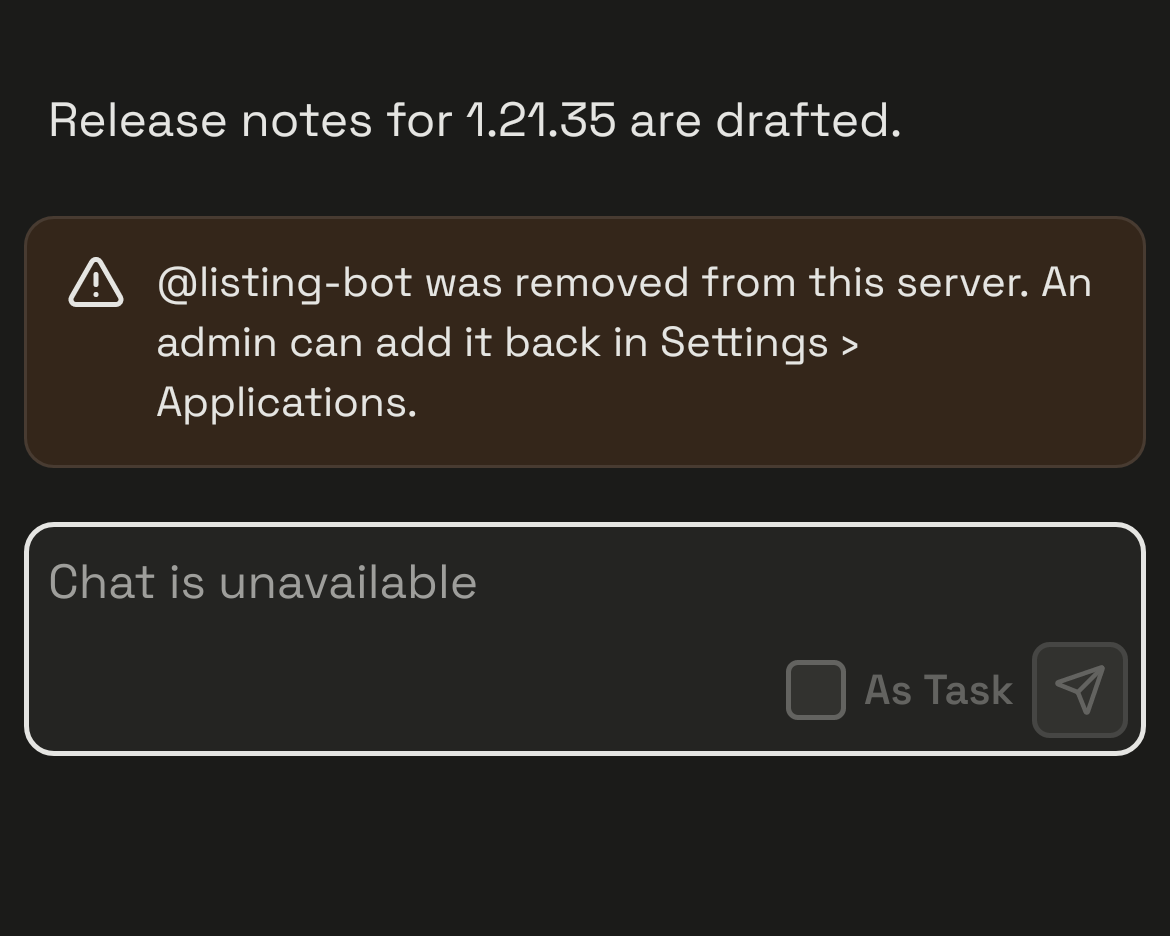
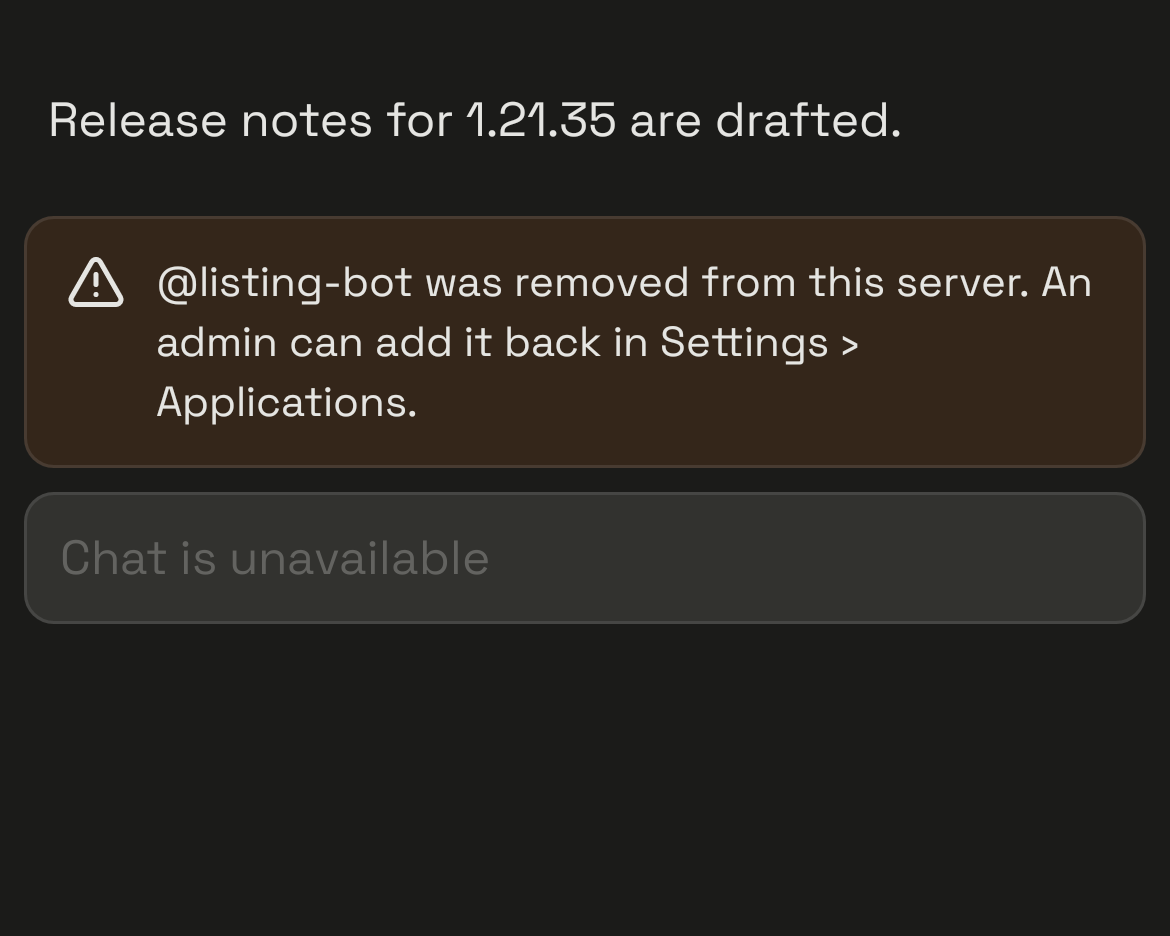
fix(app-bots): read-only composer for a removed bot's DM, Bot badge on Activity DM rows
Kirby's visual review of #3757 and AppFather's follow-up:
- A removed App Bot's DM (and threads in it) now show web's ReadOnlyComposer:
  one 44dp line, line-hairline border on fill-muted, "Chat is unavailable" in
  foreground-disabled; no editor, As Task, attachments or send. New
  design-system RaftReadOnlyComposer with light/dark goldens. The editor no
  longer mounts there, so a saved draft stays untouched.
- Activity: a DM row with an App Bot carries the Bot badge after the name.

Changed region(s): [[0.0, 0.5267, 0.9846, 0.8056]]

diff --git a/compose/shared/src/androidUnitTest/kotlin/build/raft/app/ThreadAppBotScreenshotTest.kt b/compose/shared/src/androidUnitTest/kotlin/build/raft/app/ThreadAppBotScreenshotTest.kt
@@ -1,6 +1,5 @@
 package build.raft.app
 
-import build.raft.app.resources.*
 import androidx.compose.foundation.background
 import androidx.compose.foundation.layout.Box
 import androidx.compose.foundation.layout.Column
@@ -35,7 +34,8 @@ import org.robolectric.annotation.GraphicsMode
  *  - author line: an App Bot named after its App reads "Stamp [Bot]"; one shown under another
  *    name reads "Release helper [Bot · Listing Bot App]"; neither shows a model.
  *  - DM header: the Bot badge replaces the presence line ("Offline").
- *  - removed bot DM: the warning notice above the disabled composer ("Chat is unavailable").
+ *  - Activity: a DM row with an App Bot carries the badge after the name; an ordinary agent's does not.
+ *  - removed bot DM: the warning notice above the one-line read-only composer ("Chat is unavailable").
  * Reports land in `build/reports/home-screenshots/`; verify / record as [RaftRobolectricScreenshot].
  */
 @RunWith(RobolectricTestRunner::class)
@@ -56,6 +56,10 @@ class ThreadAppBotScreenshotTest {
     @Test fun removedDmComposerLight() = capture("thread.app-bot.removed-dm", RaftAppAppearance.Light) { RemovedDmComposer() }
 
     @Test fun removedDmComposerDark() = capture("thread.app-bot.removed-dm.dark", RaftAppAppearance.Dark) { RemovedDmComposer() }
+
+    @Test fun activityDmRowsLight() = capture("activity.app-bot.dm-rows", RaftAppAppearance.Light) { ActivityBotDmRows() }
+
+    @Test fun activityDmRowsDark() = capture("activity.app-bot.dm-rows.dark", RaftAppAppearance.Dark) { ActivityBotDmRows() }
 
     private fun capture(name: String, appearance: RaftAppAppearance, content: @Composable () -> Unit) =
         RaftRobolectricScreenshot.capture(name, appearance, reportDir = "build/reports/home-screenshots", activities = activities) {
@@ -152,16 +156,61 @@ private fun RemovedDmComposer() {
             modifier = Modifier.padding(bottom = 8.dp),
         )
     }
-    ThreadComposerDock {
-        Column(Modifier.fillMaxWidth()) {
-            ThreadRemovedAppBotNotice(handle = "listing-bot")
-            ThreadComposerContent(
-                payload =
-                    RaftThreadComposerPayload(instanceId = "dm", placeholder = "Message @listing-bot")
-                        .removedAppBotReadOnly(stringResource(Res.string.thread_composer_chat_unavailable)),
-                onEvent = { _, _, _, _ -> },
-                attachmentPreviewEnabled = false,
-            )
-        }
+    ThreadComposerDock { ThreadRemovedAppBotReadOnlyComposer(handle = "listing-bot") }
+}
+
+private fun dmItem(channelId: String, name: String, preview: String, at: String, unread: Int = 0) =
+    build.raft.app.data.InboxItem(
+        key = "dm:$channelId",
+        kind = build.raft.app.model.InboxItemKind.DirectMessage,
+        channelId = build.raft.app.model.ChannelId(channelId),
+        channelName = name,
+        unreadCount = unread,
+        lastMessageSenderName = name,
+        lastMessageSenderKind = MemberKind.Agent,
+        lastMessagePreview = preview,
+        lastMessageAt = at,
+    )
+
+@Composable
+private fun ActivityBotDmRows() {
+    val timeContext =
+        build.raft.app.model.RaftTimeContext(
+            localOffsetMinutes = 8 * 60,
+            todayEpochDay = build.raft.app.model.raftEpochDayForDate(2026, 10, 26),
+            nowEpochMillis = 1_793_000_000_000L,
+        )
+    fun peer(id: String, name: String) =
+        ActivityConversationDmPeer(peerId = id, peerIsAgent = true, avatarWireValue = null, displayName = name, activityMuted = false)
+    val context =
+        ActivityConversationListContext(
+            dmPeersByChannelId =
+                mapOf(
+                    "dm-stamp" to peer("agent-stamp", "Stamp"),
+                    "dm-helper" to peer("agent-helper", "Release helper"),
+                    "dm-volta" to peer("agent-volta", "Volta"),
+                ),
+        )
+    val rows =
+        listOf(
+            dmItem("dm-stamp", "Stamp", "PR #3753 is approved and ready to merge.", "2026-10-26T01:20:00Z", unread = 1),
+            dmItem("dm-helper", "Release helper", "Release notes for 1.21.35 are drafted.", "2026-10-26T01:10:00Z"),
+            dmItem("dm-volta", "Volta", "Deployed and checked again.", "2026-10-26T01:00:00Z"),
+        )
+    rows.forEachIndexed { index, item ->
+        ActivityConversationListRow(
+            item = item,
+            model = item.activityConversationRowModel(context, build.raft.app.data.InboxFilter.All),
+            divider = index > 0,
+            selected = false,
+            timeContext = timeContext,
+            agentStatusResolver = EmptyRaftAgentStatusResolver,
+            canMarkDone = true,
+            openGestureKey = item.key,
+            captureMenuAnchor = false,
+            onOpen = {},
+            onOpenMenu = {},
+            modifier = Modifier.fillMaxWidth(),
+        )
     }
 }

diff --git a/compose/shared/src/commonMain/kotlin/build/raft/app/ThreadPage.kt b/compose/shared/src/commonMain/kotlin/build/raft/app/ThreadPage.kt
@@ -28,6 +28,7 @@ import build.raft.designsystem.components.RaftGlyph
 import build.raft.designsystem.components.RaftBackButton
 import build.raft.designsystem.components.RaftBanner
 import build.raft.designsystem.components.RaftBannerStatus
+import build.raft.designsystem.components.RaftReadOnlyComposer
 import build.raft.designsystem.components.RaftBackButtonDefaults
 import build.raft.designsystem.gesture.raftBackSwipeRegion
 import build.raft.designsystem.gesture.rememberRaftBackSwipeScroll
@@ -16952,6 +16953,11 @@ private fun ThreadComposerRoute(
     /** A removed App Bot's DM (or a thread in it): notice above a disabled composer. */
     removedAppBot: RaftAppBotIdentity? = null,
 ) {
+    if (removedAppBot != null) {
+        // The editor never mounts, so the saved draft stays in the store untouched.
+        ThreadRemovedAppBotReadOnlyComposer(handle = removedAppBot.handle)
+        return
+    }
     val composerDraftState by composerDraftViewModel.state.collectAsState()
     val expectedDraftKey = remember(surface) { surface.threadComposerDraftKey() }
     val restingHeightKey = surface.threadComposerRestingHeightKey()
@@ -16976,16 +16982,8 @@ private fun ThreadComposerRoute(
                 resolvedAuxiliaryThreadId = resolvedAuxiliaryThreadId
             )
         }
-    val chatUnavailable = stringResource(Res.string.thread_composer_chat_unavailable)
-    val composerUiState =
-        composerState
-            .let { state -> if (removedAppBot != null) state.removedAppBotReadOnly(chatUnavailable) else state }
-            .toThreadComposerUiState()
-    val composerAtRest = composerUiState.isThreadComposerAtRest() && removedAppBot == null
-    Column(modifier = Modifier.fillMaxWidth()) {
-    if (removedAppBot != null) {
-        ThreadRemovedAppBotNotice(handle = removedAppBot.handle)
-    }
+    val composerUiState = composerState.toThreadComposerUiState()
+    val composerAtRest = composerUiState.isThreadComposerAtRest()
     Box(
         modifier =
             Modifier.fillMaxWidth().onSizeChangedDp { size ->
@@ -17013,35 +17011,25 @@ private fun ThreadComposerRoute(
         adaptiveNativeEditingStateReader = adaptiveNativeEditingStateReader,
     )
     }
-    }
 }
 
 /**
- * The DM with an App Bot removed from this server (botiverse/slock #11303 `RemovedAppBotDmNotice`):
- * a raft-ui warning Banner above the read-only composer that says why and where an admin adds the
- * Bot back. Web links "Settings › Applications" for people who can manage Apps; the phone has no
- * server Apps settings, so everyone reads the plain text.
+ * The DM with an App Bot removed from this server, and threads in it (botiverse/slock #11303
+ * `RemovedAppBotDmNotice` over #11321 `ReadOnlyComposer`): a raft-ui warning Banner that says why
+ * and where an admin adds the Bot back, 8dp above the one-line read-only composer ("Chat is
+ * unavailable"; no typing, attachments, As Task or send). Web links "Settings › Applications" for
+ * people who can manage Apps; the phone has no server Apps settings, so everyone reads plain text.
  */
 @Composable
-internal fun ThreadRemovedAppBotNotice(handle: String, modifier: Modifier = Modifier) {
-    RaftBanner(
-        description = stringResource(Res.string.thread_app_bot_removed_notice, handle.removePrefix("@")),
-        status = RaftBannerStatus.Warning,
-        modifier = modifier.fillMaxWidth().padding(bottom = RaftAppSpacing.Sm),
-    )
+internal fun ThreadRemovedAppBotReadOnlyComposer(handle: String, modifier: Modifier = Modifier) {
+    Column(modifier = modifier.fillMaxWidth(), verticalArrangement = Arrangement.spacedBy(8.dp)) {
+        RaftBanner(
+            description = stringResource(Res.string.thread_app_bot_removed_notice, handle.removePrefix("@")),
+            status = RaftBannerStatus.Warning,
+        )
+        RaftReadOnlyComposer(text = stringResource(Res.string.thread_composer_chat_unavailable))
+    }
 }
-
-/**
- * Web `ReadOnlyComposer` ("Chat is unavailable") as the phone composer's own disabled state: no
- * typing, attachments or send; the placeholder says why. A saved draft is kept, not cleared, so
- * it is still there if an admin adds the Bot back.
- */
-internal fun RaftThreadComposerPayload.removedAppBotReadOnly(unavailablePlaceholder: String): RaftThreadComposerPayload =
-    copy(
-        enabled = false,
-        attachmentActionsEnabled = false,
-        placeholder = unavailablePlaceholder,
-    )
 
 /**
  * The composer's measured height at rest (empty draft, no attachments/actions/suggestions), per

diff --git a/compose/shared/src/commonTest/kotlin/build/raft/app/RaftAppBotTest.kt b/compose/shared/src/commonTest/kotlin/build/raft/app/RaftAppBotTest.kt
@@ -7,7 +7,6 @@ import build.raft.app.model.MemberKind
 import build.raft.app.model.MemberProfile
 import kotlin.test.Test
 import kotlin.test.assertEquals
-import kotlin.test.assertFalse
 import kotlin.test.assertNotNull
 import kotlin.test.assertNull
 import kotlin.test.assertTrue
@@ -123,18 +122,6 @@ class RaftAppBotTest {
     }
 
     @Test
-    fun removedBotComposerIsDisabledWithTheUnavailablePlaceholder() {
-        val composer =
-            RaftThreadComposerPayload(instanceId = "dm", placeholder = "Message @stamp", seedText = "draft kept")
-                .removedAppBotReadOnly("Chat is unavailable")
-        val state = composer.toThreadComposerUiState()
-        assertFalse(state.enabled)
-        assertFalse(state.attachmentActionsEnabled)
-        assertEquals("Chat is unavailable", state.placeholder)
-        assertEquals("draft kept", state.seedText)
-    }
-
-    @Test
     fun composerChecksTheDmPeerAndAThreadsParentDmPeer() {
         val botPeer =
             MemberDetailIdentity(MemberId("agent-removed"), MemberKind.Agent)
@@ -155,5 +142,35 @@ class RaftAppBotTest {
         assertNull(display(RaftThreadSurfaceKind.Channel, dm = botPeer).composerDmAgentPeerId())
         assertNull(display(RaftThreadSurfaceKind.ReplyThread).composerDmAgentPeerId())
         assertTrue(display(RaftThreadSurfaceKind.ReplyThread, dm = botPeer).composerDmAgentPeerId() == null)
+    }
+
+    @Test
+    fun activityBadgesOnlyADmRowWithAnAgentPeer() {
+        fun peer(id: String, agent: Boolean) =
+            ActivityConversationDmPeer(peerId = id, peerIsAgent = agent, avatarWireValue = null, displayName = id, activityMuted = false)
+        val context =
+            ActivityConversationListContext(
+                dmPeersByChannelId = mapOf("dm-bot" to peer("agent-stamp", true), "dm-human" to peer("user-1", false)),
+            )
+        fun dm(channelId: String) =
+            build.raft.app.data.InboxItem(
+                key = "dm:$channelId",
+                kind = build.raft.app.model.InboxItemKind.DirectMessage,
+                channelId = build.raft.app.model.ChannelId(channelId),
+                channelName = channelId,
+            )
+        val thread =
+            build.raft.app.data.InboxItem(
+                key = "thread:t",
+                kind = build.raft.app.model.InboxItemKind.Thread,
+                channelId = build.raft.app.model.ChannelId("t"),
+                channelName = "thread",
+                parentChannelId = build.raft.app.model.ChannelId("dm-bot"),
+                parentChannelKind = build.raft.app.model.ConversationKind.DirectMessage,
+            )
+        val all = build.raft.app.data.InboxFilter.All
+        assertEquals("agent-stamp", dm("dm-bot").activityConversationRowModel(context, all).activityDmAppBotPeerId())
+        assertNull(dm("dm-human").activityConversationRowModel(context, all).activityDmAppBotPeerId())
+        assertNull(thread.activityConversationRowModel(context, all).activityDmAppBotPeerId())
     }
 }

diff --git a/compose/designsystem/src/commonMain/kotlin/build/raft/designsystem/components/RaftReadOnlyComposer.kt b/compose/designsystem/src/commonMain/kotlin/build/raft/designsystem/components/RaftReadOnlyComposer.kt
@@ -1,0 +1,56 @@
+package build.raft.designsystem.components
+
+import androidx.compose.foundation.background
+import androidx.compose.foundation.border
+import androidx.compose.foundation.layout.Box
+import androidx.compose.foundation.layout.fillMaxWidth
+import androidx.compose.foundation.layout.heightIn
+import androidx.compose.foundation.layout.padding
+import androidx.compose.foundation.shape.RoundedCornerShape
+import androidx.compose.runtime.Composable
+import androidx.compose.ui.Alignment
+import androidx.compose.ui.Modifier
+import androidx.compose.ui.semantics.clearAndSetSemantics
+import androidx.compose.ui.semantics.contentDescription
+import androidx.compose.ui.semantics.disabled
+import androidx.compose.ui.text.style.TextOverflow
+import androidx.compose.ui.unit.dp
+import build.raft.designsystem.text.RaftText
+import build.raft.designsystem.theme.RaftTheme
+import build.raft.designsystem.tokens.RaftRadius
+import build.raft.designsystem.tokens.RaftStroke
+
+/**
+ * The composer's stand-in where nobody can write (botiverse/slock web `ReadOnlyComposer`): one
+ * disabled line, `min-h-11` (44dp), `rounded-container`, a `line-hairline` border on
+ * `fill-muted`, 12dp each side, and [text] ("Chat is unavailable") in `text-body`
+ * `foreground-disabled`. No typing, attachments, As Task or send. Screen readers hear [text] as a
+ * disabled field.
+ */
+@Composable
+fun RaftReadOnlyComposer(text: String, modifier: Modifier = Modifier) {
+    val colors = RaftTheme.colors
+    val shape = RoundedCornerShape(RaftRadius.Container)
+    Box(
+        modifier =
+            modifier
+                .fillMaxWidth()
+                .heightIn(min = 44.dp)
+                .background(colors.fillMuted, shape)
+                .border(RaftStroke.Hairline, colors.lineHairline, shape)
+                .clearAndSetSemantics {
+                    contentDescription = text
+                    disabled()
+                }
+                .padding(horizontal = 12.dp),
+        contentAlignment = Alignment.CenterStart,
+    ) {
+        RaftText(
+            text = text,
+            style = RaftTheme.typography.body,
+            color = colors.foregroundDisabled,
+            maxLines = 1,
+            overflow = TextOverflow.Ellipsis,
+        )
+    }
+}

diff --git a/compose/shared/src/commonMain/kotlin/build/raft/app/ActivityConversationList.kt b/compose/shared/src/commonMain/kotlin/build/raft/app/ActivityConversationList.kt
@@ -100,6 +100,12 @@ import build.raft.designsystem.theme.RaftTheme
  * are in ActivityConversationSwipe.kt.
  */
 
+/** The agent peer of a DM row (not a thread in a DM): whose App Bot badge the title carries. */
+internal fun ActivityConversationRowModel.activityDmAppBotPeerId(): String? =
+    dmPeer
+        ?.takeIf { leadingKind == ActivityConversationLeadingKind.DirectMessage && it.peerIsAgent }
+        ?.peerId
+
 /** The Home sidebar facts a conversation row needs: who a DM is with, and whether the place is muted. */
 @Immutable
 internal data class ActivityConversationDmPeer(
@@ -836,6 +842,11 @@ internal fun ActivityConversationListRow(
                                 maxLines = 1,
                                 overflow = TextOverflow.Ellipsis,
                             )
+                            // botiverse/slock #11273: the DM with an App Bot names it a Bot.
+                            val appBot = rememberRaftMemberAppBot(model.activityDmAppBotPeerId())
+                            if (appBot != null) {
+                                RaftAppBotBadge(identity = appBot, botName = model.title?.toAnnotatedString()?.text)
+                            }
                             if (model.taskNumber != null && model.taskStatus != null) {
                                 SharedActivityFooterBadge(
                                     label = "#${model.taskNumber}",

diff --git a/compose/designsystem/src/desktopTest/kotlin/build/raft/designsystem/screenshot/DisplayComponentScreenshotTest.kt b/compose/designsystem/src/desktopTest/kotlin/build/raft/designsystem/screenshot/DisplayComponentScreenshotTest.kt
@@ -32,6 +32,7 @@ import build.raft.designsystem.components.LocalRaftPressedPreview
 import build.raft.designsystem.components.LocalRaftSpinnerStillStep
 import build.raft.designsystem.components.LocalRaftTooltipPreview
 import build.raft.designsystem.components.RaftAgentStateChip
+import build.raft.designsystem.components.RaftReadOnlyComposer
 import build.raft.designsystem.components.RaftAgentTag
 import build.raft.designsystem.components.RaftAvatar
 import build.raft.designsystem.components.RaftAvatarBadgeBox
@@ -721,6 +722,19 @@ class DisplayComponentScreenshotTest {
             }
         }
     }
+
+    /** Web `ReadOnlyComposer`: a removed App Bot's DM under its warning notice. */
+    @Test
+    fun readOnlyComposer() =
+        capture("read_only_composer") {
+            Column(Modifier.width(380.dp), verticalArrangement = Arrangement.spacedBy(8.dp)) {
+                RaftBanner(
+                    description = "@stamp was removed from this server. An admin can add it back in Settings › Applications.",
+                    status = RaftBannerStatus.Warning,
+                )
+                RaftReadOnlyComposer("Chat is unavailable")
+            }
+        }
 
     @Test
     fun banner() =

diff --git a/compose/shared/src/commonMain/kotlin/build/raft/app/SharedInboxPanel.kt b/compose/shared/src/commonMain/kotlin/build/raft/app/SharedInboxPanel.kt
@@ -575,8 +575,14 @@ internal fun SharedHomeActivityScreen(
             activityStore.dispatch(SharedActivityIntent.Refresh)
         }
     }
+    // botiverse/slock #11273: a DM row with an App Bot shows the Bot badge after the name.
+    val activityAppBotResolver =
+        remember(sharedStores.serverMembersStore, activitySummaryServerId) {
+            raftMemberAppBotResolver(sharedStores.serverMembersStore, activitySummaryServerId.value)
+        }
     CompositionLocalProvider(
         LocalActivityAvatarSource provides activityAvatarSource,
+        LocalRaftMemberAppBotResolver provides activityAppBotResolver,
     ) {
     SharedActivityPanelContent(
         state = safeOpenProjectedState,
